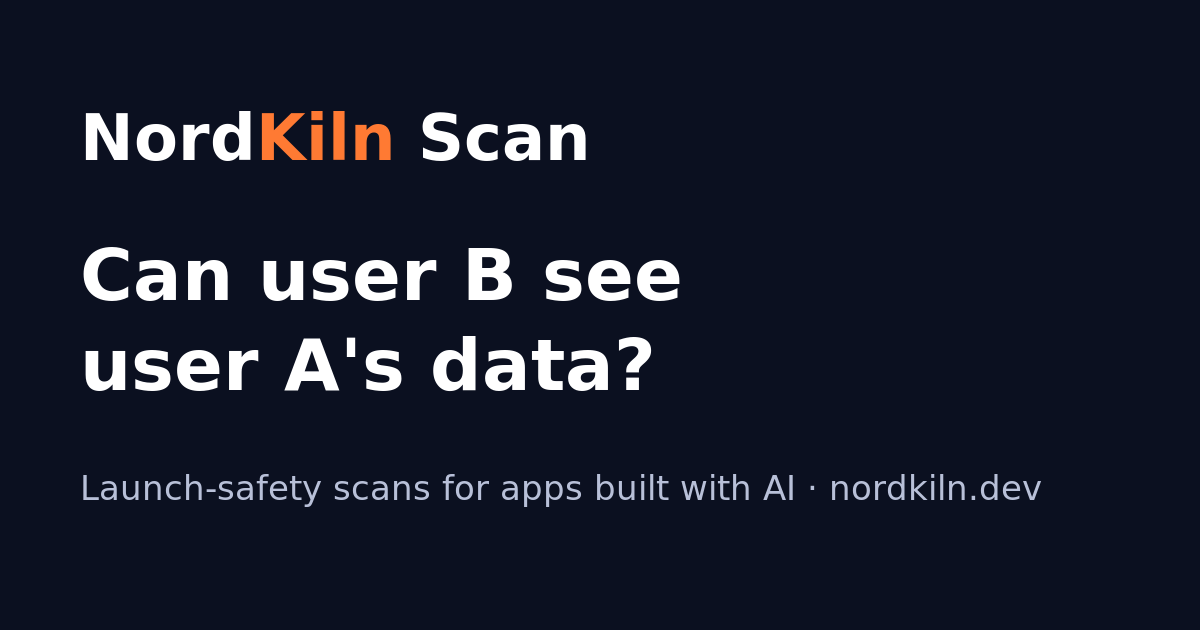
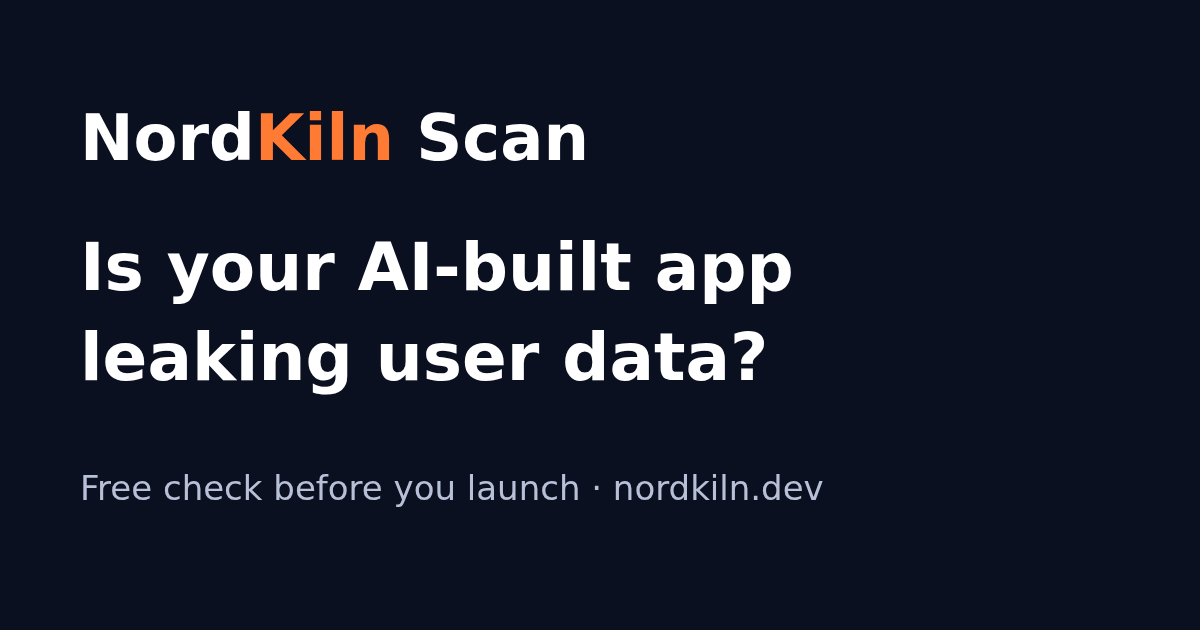
Simpler messaging: 'Is your AI-built app leaking your users' data?'

diff --git a/index.html b/index.html
@@ -1,4 +1,4 @@
-<!doctype html><html lang="en"><head><meta charset="utf-8"><meta name="viewport" content="width=device-width,initial-scale=1"><title>NordKiln Scan: vibe coding security scanner for logged-in data leaks</title><meta name="description" content="Check if your Cursor, Bolt, Replit or v0 app leaks user data before launch. NordKiln tests what logged-in users can see, plus exposed API keys and open Supabase/Firebase."><link rel="canonical" href="https://nordkiln.dev/"><link rel="icon" href="/favicon.svg" type="image/svg+xml"><meta property="og:type" content="website"><meta property="og:site_name" content="NordKiln"><meta property="og:title" content="NordKiln Scan: vibe coding security scanner for logged-in data leaks"><meta property="og:description" content="Check if your Cursor, Bolt, Replit or v0 app leaks user data before launch. NordKiln tests what logged-in users can see, plus exposed API keys and open Supabase/Firebase."><meta property="og:url" content="https://nordkiln.dev/"><meta property="og:image" content="https://nordkiln.dev/og.png"><meta name="twitter:card" content="summary_large_image"><meta name="twitter:site" content="@nordkiln"><style>*{box-sizing:border-box}body{margin:0;font:17px/1.6 system-ui,-apple-system,Segoe UI,Roboto,sans-serif;background:#0b1020;color:#e6e9f2}a{color:#ff9d5c}.w{max-width:960px;margin:0 auto;padding:0 20px}header{border-bottom:1px solid #1d2540}header .w{display:flex;justify-content:space-between;align-items:center;height:64px}.logo{font-weight:800;color:#fff;text-decoration:none;font-size:20px}.logo span{color:#ff7a33}nav a{margin-left:18px;color:#c9cfe0;text-decoration:none}.hero{padding:72px 0 48px}h1{font-size:clamp(32px,5vw,52px);line-height:1.1;margin:.2em 0}.tag{display:inline-block;background:#2a1a10;color:#ffb27d;border:1px solid #6b3a1c;border-radius:99px;padding:2px 12px;font-size:14px}.lead{font-size:20px;color:#b8c0d8;max-width:680px}form{display:flex;gap:8px;flex-wrap:wrap;margin:24px 0 8px}input[type=email]{flex:1;min-width:220px;padding:14px;border-radius:10px;border:1px solid #2c3658;background:#121a33;color:#fff;font-size:16px}button{padding:14px 22px;border:0;border-radius:10px;background:#ff7a33;color:#111;font-weight:700;font-size:16px;cursor:pointer}.small{font-size:14px;color:#8a93ad}.grid{display:grid;grid-template-columns:repeat(auto-fit,minmax(240px,1fr));gap:16px}.card{background:#121a33;border:1px solid #1d2540;border-radius:14px;padding:20px}section{padding:40px 0}h2{font-size:28px}h3{margin-top:28px}footer{border-top:1px solid #1d2540;padding:28px 0;color:#8a93ad;font-size:14px}footer a{color:#8a93ad;margin-right:14px}</style><script type="application/ld+json">{"@context": "https://schema.org", "@type": "FAQPage", "mainEntity": [{"@type": "Question", "name": "What is a vibe coding security scanner?", "acceptedAnswer": {"@type": "Answer", "text": "A tool that checks apps built with AI coding tools (Cursor, Claude Code, Replit, Bolt, v0, Lovable) for the security mistakes AI tends to make: exposed API keys, open Supabase or Firebase databases, and missing access control. NordKiln Scan also logs in as two test users to check whether one user can read another user's data."}}, {"@type": "Question", "name": "Is my Lovable, Bolt or Replit app secure?", "acceptedAnswer": {"@type": "Answer", "text": "Not automatically. The most common problems are database tables without Row Level Security, Firebase rules that allow public reads, and secret keys shipped in frontend JavaScript. A scan that tests both anonymous and logged-in access is the quickest way to know."}}, {"@type": "Question", "name": "How do I check my Supabase RLS policies?", "acceptedAnswer": {"@type": "Answer", "text": "Make sure Row Level Security is enabled on every table, then test with a real logged-in user: user B must not be able to select, update or delete rows owned by user A. NordKiln Scan does this with two test accounts and shows exactly which tables leak."}}, {"@type": "Question", "name": "My Supabase anon key is exposed. Is that a problem?", "acceptedAnswer": {"@type": "Answer", "text": "The anon key is meant to be public, but only if RLS protects every table. A leaked service_role key is critical: it bypasses all security. Rotate it immediately in the Supabase dashboard and move it to server-side code."}}, {"@type": "Question", "name": "How do I check my Firebase security rules?", "acceptedAnswer": {"@type": "Answer", "text": "Rules like allow read, write: if true or if request.auth != null let anyone (or any signed-in user) read everything. Rules should check that request.auth.uid matches the owner of the document."}}, {"@type": "Question", "name": "How do I scan my website for exposed API keys?", "acceptedAnswer": {"@type": "Answer", "text": "Look through the JavaScript bundles your site serves for keys from OpenAI, Stripe, Supabase service_role, AWS and similar. NordKiln Scan does this automatically and explains each finding in plain English."}}, {"@type": "Question", "name": "My OpenAI API key leaked in the frontend. What should I do?", "acceptedAnswer": {"@type": "Answer", "text": "Revoke it now in the OpenAI dashboard, create a new key, and call OpenAI only from a server route or edge function with rate limiting. Also set a monthly spending limit to avoid surprise bills."}}, {"@type": "Question", "name": "What should a Cursor app security checklist cover before launch?", "acceptedAnswer": {"@type": "Answer", "text": "No secrets in client code, access control on every table and API route, users unable to read each other's data, rate limits on paid APIs, and a privacy policy. Our scanner checks these and gives you fix prompts for your tool."}}, {"@type": "Question", "name": "How is NordKiln different from Bleek, Vibeproof or Lovable's built-in scan?", "acceptedAnswer": {"@type": "Answer", "text": "Most scanners only check what an anonymous visitor sees. NordKiln tests what logged-in users can see, gives fix prompts for Cursor, Claude Code, Replit, Bolt and v0, re-scans to verify the fix, and issues a 'verified safe to launch' badge."}}, {"@type": "Question", "name": "Can I scan any app?", "acceptedAnswer": {"@type": "Answer", "text": "No. Deep scans are only for apps you own or are authorized to test, and we ask you to prove ownership. Our probes are read-only."}}]}</script><script type="application/ld+json">{"@context": "https://schema.org", "@type": "Organization", "name": "NordKiln", "url": "https://nordkiln.dev", "logo": "https://nordkiln.dev/favicon.svg", "sameAs": ["https://x.com/nordkiln"]}</script></head><body><header><div class="w"><a class="logo" href="/">Nord<span>Kiln</span></a><nav><a href="/tools/supabase-check/">Supabase check</a><a href="/scan/">Scan</a><a href="/#faq">FAQ</a><a href="https://x.com/nordkiln">X</a></nav></div></header><main class="w"><section class="hero"><span class="tag">Coming soon · free early access</span><h1>Can user B see user A's data?</h1><p class="lead">NordKiln Scan checks apps built with AI before launch. We log in as two test users and prove whether your app leaks private data, then find exposed API keys and open Supabase or Firebase databases. You get plain-English fixes and a verified safe-to-launch badge.</p><form action="https://formsubmit.co/dan.nordkiln@gmail.com" method="POST"><input type="hidden" name="_subject" value="NordKiln early access signup"><input type="hidden" name="_next" value="https://nordkiln.dev/thanks.html"><input type="hidden" name="_captcha" value="false"><input type="text" name="_honey" style="display:none"><label for="em" class="small" style="width:100%">Get early access to the free scan:</label><input id="em" type="email" name="email" required placeholder="you@yourapp.com"><button type="submit">Join early access</button></form><p class="small">No spam. One email when the scanner opens, plus an occasional newsletter. Unsubscribe anytime.</p><p class="small"><a href="/scan/">How NordKiln Scan works →</a></p></section><section><h2>How it works</h2><div class="grid"><div class="card"><h3>1. Paste your URL</h3><p>Free scan for leaked API keys, open Supabase/Firebase and missing security headers.</p></div><div class="card"><h3>2. Add two test users</h3><p>We log in as user A and user B and check whether B can read, edit or delete A's data.</p></div><div class="card"><h3>3. Fix and verify</h3><p>Plain-English findings, copy-paste fix prompts for Cursor, Claude Code, Replit, Bolt or v0, then a re-scan and a "verified safe to launch" badge.</p></div></div></section>
+<!doctype html><html lang="en"><head><meta charset="utf-8"><meta name="viewport" content="width=device-width,initial-scale=1"><title>Is your AI-built app leaking your users' data? Free vibe coding security scanner | NordKiln</title><meta name="description" content="Free check before you launch: is your Cursor, Bolt, Replit or v0 app leaking your users' data? We test what logged-in users can see, plus exposed API keys and open Supabase/Firebase, with plain-English fixes."><link rel="canonical" href="https://nordkiln.dev/"><link rel="icon" href="/favicon.svg" type="image/svg+xml"><meta property="og:type" content="website"><meta property="og:site_name" content="NordKiln"><meta property="og:title" content="Is your AI-built app leaking your users' data? Free vibe coding security scanner | NordKiln"><meta property="og:description" content="Free check before you launch: is your Cursor, Bolt, Replit or v0 app leaking your users' data? We test what logged-in users can see, plus exposed API keys and open Supabase/Firebase, with plain-English fixes."><meta property="og:url" content="https://nordkiln.dev/"><meta property="og:image" content="https://nordkiln.dev/og.png"><meta name="twitter:card" content="summary_large_image"><meta name="twitter:site" content="@nordkiln"><style>*{box-sizing:border-box}body{margin:0;font:17px/1.6 system-ui,-apple-system,Segoe UI,Roboto,sans-serif;background:#0b1020;color:#e6e9f2}a{color:#ff9d5c}.w{max-width:960px;margin:0 auto;padding:0 20px}header{border-bottom:1px solid #1d2540}header .w{display:flex;justify-content:space-between;align-items:center;height:64px}.logo{font-weight:800;color:#fff;text-decoration:none;font-size:20px}.logo span{color:#ff7a33}nav a{margin-left:18px;color:#c9cfe0;text-decoration:none}.hero{padding:72px 0 48px}h1{font-size:clamp(32px,5vw,52px);line-height:1.1;margin:.2em 0}.tag{display:inline-block;background:#2a1a10;color:#ffb27d;border:1px solid #6b3a1c;border-radius:99px;padding:2px 12px;font-size:14px}.lead{font-size:20px;color:#b8c0d8;max-width:680px}form{display:flex;gap:8px;flex-wrap:wrap;margin:24px 0 8px}input[type=email]{flex:1;min-width:220px;padding:14px;border-radius:10px;border:1px solid #2c3658;background:#121a33;color:#fff;font-size:16px}button{padding:14px 22px;border:0;border-radius:10px;background:#ff7a33;color:#111;font-weight:700;font-size:16px;cursor:pointer}.small{font-size:14px;color:#8a93ad}.grid{display:grid;grid-template-columns:repeat(auto-fit,minmax(240px,1fr));gap:16px}.card{background:#121a33;border:1px solid #1d2540;border-radius:14px;padding:20px}section{padding:40px 0}h2{font-size:28px}h3{margin-top:28px}footer{border-top:1px solid #1d2540;padding:28px 0;color:#8a93ad;font-size:14px}footer a{color:#8a93ad;margin-right:14px}</style><script type="application/ld+json">{"@context": "https://schema.org", "@type": "FAQPage", "mainEntity": [{"@type": "Question", "name": "What is a vibe coding security scanner?", "acceptedAnswer": {"@type": "Answer", "text": "A tool that checks apps built with AI coding tools (Cursor, Claude Code, Replit, Bolt, v0, Lovable) for the security mistakes AI tends to make: exposed API keys, open Supabase or Firebase databases, and missing access control. NordKiln Scan also logs in as two test users to check whether one user can read another user's data."}}, {"@type": "Question", "name": "Is my Lovable, Bolt or Replit app secure?", "acceptedAnswer": {"@type": "Answer", "text": "Not automatically. The most common problems are database tables without Row Level Security, Firebase rules that allow public reads, and secret keys shipped in frontend JavaScript. A scan that tests both anonymous and logged-in access is the quickest way to know."}}, {"@type": "Question", "name": "How do I check my Supabase RLS policies?", "acceptedAnswer": {"@type": "Answer", "text": "Make sure Row Level Security is enabled on every table, then test with a real logged-in user: user B must not be able to select, update or delete rows owned by user A. NordKiln Scan does this with two test accounts and shows exactly which tables leak."}}, {"@type": "Question", "name": "My Supabase anon key is exposed. Is that a problem?", "acceptedAnswer": {"@type": "Answer", "text": "The anon key is meant to be public, but only if RLS protects every table. A leaked service_role key is critical: it bypasses all security. Rotate it immediately in the Supabase dashboard and move it to server-side code."}}, {"@type": "Question", "name": "How do I check my Firebase security rules?", "acceptedAnswer": {"@type": "Answer", "text": "Rules like allow read, write: if true or if request.auth != null let anyone (or any signed-in user) read everything. Rules should check that request.auth.uid matches the owner of the document."}}, {"@type": "Question", "name": "How do I scan my website for exposed API keys?", "acceptedAnswer": {"@type": "Answer", "text": "Look through the JavaScript bundles your site serves for keys from OpenAI, Stripe, Supabase service_role, AWS and similar. NordKiln Scan does this automatically and explains each finding in plain English."}}, {"@type": "Question", "name": "My OpenAI API key leaked in the frontend. What should I do?", "acceptedAnswer": {"@type": "Answer", "text": "Revoke it now in the OpenAI dashboard, create a new key, and call OpenAI only from a server route or edge function with rate limiting. Also set a monthly spending limit to avoid surprise bills."}}, {"@type": "Question", "name": "What should a Cursor app security checklist cover before launch?", "acceptedAnswer": {"@type": "Answer", "text": "No secrets in client code, access control on every table and API route, users unable to read each other's data, rate limits on paid APIs, and a privacy policy. Our scanner checks these and gives you fix prompts for your tool."}}, {"@type": "Question", "name": "How is NordKiln different from Bleek, Vibeproof or Lovable's built-in scan?", "acceptedAnswer": {"@type": "Answer", "text": "Most scanners only check what an anonymous visitor sees. NordKiln tests what logged-in users can see, gives fix prompts for Cursor, Claude Code, Replit, Bolt and v0, re-scans to verify the fix, and issues a 'verified safe to launch' badge."}}, {"@type": "Question", "name": "Can I scan any app?", "acceptedAnswer": {"@type": "Answer", "text": "No. Deep scans are only for apps you own or are authorized to test, and we ask you to prove ownership. Our probes are read-only."}}]}</script><script type="application/ld+json">{"@context": "https://schema.org", "@type": "Organization", "name": "NordKiln", "url": "https://nordkiln.dev", "logo": "https://nordkiln.dev/favicon.svg", "sameAs": ["https://x.com/nordkiln"]}</script></head><body><header><div class="w"><a class="logo" href="/">Nord<span>Kiln</span></a><nav><a href="/tools/supabase-check/">Supabase check</a><a href="/scan/">Scan</a><a href="/#faq">FAQ</a><a href="https://x.com/nordkiln">X</a></nav></div></header><main class="w"><section class="hero"><span class="tag">Coming soon · free early access</span><h1>Is your AI-built app leaking your users' data?</h1><p class="lead">Free check before you launch. We test your app like a real user would, including whether one logged-in user can see another user's private data, and give you plain-English fixes. Works with apps built in Cursor, Bolt, Replit, v0 and Lovable.</p><form action="https://formsubmit.co/dan.nordkiln@gmail.com" method="POST"><input type="hidden" name="_subject" value="NordKiln early access signup"><input type="hidden" name="_next" value="https://nordkiln.dev/thanks.html"><input type="hidden" name="_captcha" value="false"><input type="text" name="_honey" style="display:none"><label for="em" class="small" style="width:100%">Get early access to the free scan:</label><input id="em" type="email" name="email" required placeholder="you@yourapp.com"><button type="submit">Join early access</button></form><p class="small">No spam. One email when the scanner opens, plus an occasional newsletter. Unsubscribe anytime.</p><p class="small"><a href="/scan/">How NordKiln Scan works →</a></p></section><section><h2>How it works</h2><div class="grid"><div class="card"><h3>1. Paste your URL</h3><p>Free scan for leaked API keys, open Supabase/Firebase and missing security headers.</p></div><div class="card"><h3>2. Add two test users</h3><p>We log in as user A and user B and check whether B can read, edit or delete A's data.</p></div><div class="card"><h3>3. Fix and verify</h3><p>Plain-English findings, copy-paste fix prompts for Cursor, Claude Code, Replit, Bolt or v0, then a re-scan and a "verified safe to launch" badge.</p></div></div></section>
 <section><h2>Free tools</h2><div class="grid"><div class="card"><h3>Supabase RLS checker</h3><p>Client-side check: is your anon key safe? See which tables anonymous visitors can read, and catch leaked <code>service_role</code> or API keys. Nothing is uploaded.</p><p><a href="/tools/supabase-check/">Run the free check →</a></p></div></div></section>
 <section><h2>Built for apps made with</h2><p>Cursor · Claude Code · Replit · Bolt · v0 · Lovable, using stacks like Next.js, Supabase, Firebase, Clerk, Convex and Stripe.</p></section>
 <section id="faq"><h2>Frequently asked questions</h2><h3>What is a vibe coding security scanner?</h3><p>A tool that checks apps built with AI coding tools (Cursor, Claude Code, Replit, Bolt, v0, Lovable) for the security mistakes AI tends to make: exposed API keys, open Supabase or Firebase databases, and missing access control. NordKiln Scan also logs in as two test users to check whether one user can read another user's data.</p><h3>Is my Lovable, Bolt or Replit app secure?</h3><p>Not automatically. The most common problems are database tables without Row Level Security, Firebase rules that allow public reads, and secret keys shipped in frontend JavaScript. A scan that tests both anonymous and logged-in access is the quickest way to know.</p><h3>How do I check my Supabase RLS policies?</h3><p>Make sure Row Level Security is enabled on every table, then test with a real logged-in user: user B must not be able to select, update or delete rows owned by user A. NordKiln Scan does this with two test accounts and shows exactly which tables leak.</p><h3>My Supabase anon key is exposed. Is that a problem?</h3><p>The anon key is meant to be public, but only if RLS protects every table. A leaked service_role key is critical: it bypasses all security. Rotate it immediately in the Supabase dashboard and move it to server-side code.</p><h3>How do I check my Firebase security rules?</h3><p>Rules like allow read, write: if true or if request.auth != null let anyone (or any signed-in user) read everything. Rules should check that request.auth.uid matches the owner of the document.</p><h3>How do I scan my website for exposed API keys?</h3><p>Look through the JavaScript bundles your site serves for keys from OpenAI, Stripe, Supabase service_role, AWS and similar. NordKiln Scan does this automatically and explains each finding in plain English.</p><h3>My OpenAI API key leaked in the frontend. What should I do?</h3><p>Revoke it now in the OpenAI dashboard, create a new key, and call OpenAI only from a server route or edge function with rate limiting. Also set a monthly spending limit to avoid surprise bills.</p><h3>What should a Cursor app security checklist cover before launch?</h3><p>No secrets in client code, access control on every table and API route, users unable to read each other's data, rate limits on paid APIs, and a privacy policy. Our scanner checks these and gives you fix prompts for your tool.</p><h3>How is NordKiln different from Bleek, Vibeproof or Lovable's built-in scan?</h3><p>Most scanners only check what an anonymous visitor sees. NordKiln tests what logged-in users can see, gives fix prompts for Cursor, Claude Code, Replit, Bolt and v0, re-scans to verify the fix, and issues a 'verified safe to launch' badge.</p><h3>Can I scan any app?</h3><p>No. Deep scans are only for apps you own or are authorized to test, and we ask you to prove ownership. Our probes are read-only.</p></section>

diff --git a/scan/index.html b/scan/index.html
@@ -1,4 +1,4 @@
-<!doctype html><html lang="en"><head><meta charset="utf-8"><meta name="viewport" content="width=device-width,initial-scale=1"><title>NordKiln Scan: check your vibe-coded app for data leaks before launch</title><meta name="description" content="How NordKiln Scan tests logged-in access, Supabase RLS, Firebase rules and exposed API keys in AI-built apps, and what the $19 Launch Pass will include."><link rel="canonical" href="https://nordkiln.dev/scan/"><link rel="icon" href="/favicon.svg" type="image/svg+xml"><meta property="og:type" content="website"><meta property="og:site_name" content="NordKiln"><meta property="og:title" content="NordKiln Scan: check your vibe-coded app for data leaks before launch"><meta property="og:description" content="How NordKiln Scan tests logged-in access, Supabase RLS, Firebase rules and exposed API keys in AI-built apps, and what the $19 Launch Pass will include."><meta property="og:url" content="https://nordkiln.dev/scan/"><meta property="og:image" content="https://nordkiln.dev/og.png"><meta name="twitter:card" content="summary_large_image"><meta name="twitter:site" content="@nordkiln"><style>*{box-sizing:border-box}body{margin:0;font:17px/1.6 system-ui,-apple-system,Segoe UI,Roboto,sans-serif;background:#0b1020;color:#e6e9f2}a{color:#ff9d5c}.w{max-width:960px;margin:0 auto;padding:0 20px}header{border-bottom:1px solid #1d2540}header .w{display:flex;justify-content:space-between;align-items:center;height:64px}.logo{font-weight:800;color:#fff;text-decoration:none;font-size:20px}.logo span{color:#ff7a33}nav a{margin-left:18px;color:#c9cfe0;text-decoration:none}.hero{padding:72px 0 48px}h1{font-size:clamp(32px,5vw,52px);line-height:1.1;margin:.2em 0}.tag{display:inline-block;background:#2a1a10;color:#ffb27d;border:1px solid #6b3a1c;border-radius:99px;padding:2px 12px;font-size:14px}.lead{font-size:20px;color:#b8c0d8;max-width:680px}form{display:flex;gap:8px;flex-wrap:wrap;margin:24px 0 8px}input[type=email]{flex:1;min-width:220px;padding:14px;border-radius:10px;border:1px solid #2c3658;background:#121a33;color:#fff;font-size:16px}button{padding:14px 22px;border:0;border-radius:10px;background:#ff7a33;color:#111;font-weight:700;font-size:16px;cursor:pointer}.small{font-size:14px;color:#8a93ad}.grid{display:grid;grid-template-columns:repeat(auto-fit,minmax(240px,1fr));gap:16px}.card{background:#121a33;border:1px solid #1d2540;border-radius:14px;padding:20px}section{padding:40px 0}h2{font-size:28px}h3{margin-top:28px}footer{border-top:1px solid #1d2540;padding:28px 0;color:#8a93ad;font-size:14px}footer a{color:#8a93ad;margin-right:14px}</style></head><body><header><div class="w"><a class="logo" href="/">Nord<span>Kiln</span></a><nav><a href="/tools/supabase-check/">Supabase check</a><a href="/scan/">Scan</a><a href="/#faq">FAQ</a><a href="https://x.com/nordkiln">X</a></nav></div></header><main class="w"><section class="hero"><span class="tag">Coming soon</span><h1>NordKiln Scan</h1><p class="lead">A launch-safety check for apps built with Cursor, Claude Code, Replit, Bolt and v0. Most scanners only look at what anonymous visitors can see. We also test what your logged-in users can see.</p><form action="https://formsubmit.co/dan.nordkiln@gmail.com" method="POST"><input type="hidden" name="_subject" value="NordKiln early access signup"><input type="hidden" name="_next" value="https://nordkiln.dev/thanks.html"><input type="hidden" name="_captcha" value="false"><input type="text" name="_honey" style="display:none"><label for="em" class="small" style="width:100%">Get early access to the free scan:</label><input id="em" type="email" name="email" required placeholder="you@yourapp.com"><button type="submit">Join early access</button></form><p class="small">No spam. One email when the scanner opens, plus an occasional newsletter. Unsubscribe anytime.</p></section>
+<!doctype html><html lang="en"><head><meta charset="utf-8"><meta name="viewport" content="width=device-width,initial-scale=1"><title>Is your AI-built app leaking user data? NordKiln Scan checks before launch</title><meta name="description" content="Find out if your AI-built app leaks your users' data before launch. How NordKiln Scan tests logged-in access, Supabase RLS, Firebase rules and exposed API keys, and what the $19 Launch Pass will include."><link rel="canonical" href="https://nordkiln.dev/scan/"><link rel="icon" href="/favicon.svg" type="image/svg+xml"><meta property="og:type" content="website"><meta property="og:site_name" content="NordKiln"><meta property="og:title" content="Is your AI-built app leaking user data? NordKiln Scan checks before launch"><meta property="og:description" content="Find out if your AI-built app leaks your users' data before launch. How NordKiln Scan tests logged-in access, Supabase RLS, Firebase rules and exposed API keys, and what the $19 Launch Pass will include."><meta property="og:url" content="https://nordkiln.dev/scan/"><meta property="og:image" content="https://nordkiln.dev/og.png"><meta name="twitter:card" content="summary_large_image"><meta name="twitter:site" content="@nordkiln"><style>*{box-sizing:border-box}body{margin:0;font:17px/1.6 system-ui,-apple-system,Segoe UI,Roboto,sans-serif;background:#0b1020;color:#e6e9f2}a{color:#ff9d5c}.w{max-width:960px;margin:0 auto;padding:0 20px}header{border-bottom:1px solid #1d2540}header .w{display:flex;justify-content:space-between;align-items:center;height:64px}.logo{font-weight:800;color:#fff;text-decoration:none;font-size:20px}.logo span{color:#ff7a33}nav a{margin-left:18px;color:#c9cfe0;text-decoration:none}.hero{padding:72px 0 48px}h1{font-size:clamp(32px,5vw,52px);line-height:1.1;margin:.2em 0}.tag{display:inline-block;background:#2a1a10;color:#ffb27d;border:1px solid #6b3a1c;border-radius:99px;padding:2px 12px;font-size:14px}.lead{font-size:20px;color:#b8c0d8;max-width:680px}form{display:flex;gap:8px;flex-wrap:wrap;margin:24px 0 8px}input[type=email]{flex:1;min-width:220px;padding:14px;border-radius:10px;border:1px solid #2c3658;background:#121a33;color:#fff;font-size:16px}button{padding:14px 22px;border:0;border-radius:10px;background:#ff7a33;color:#111;font-weight:700;font-size:16px;cursor:pointer}.small{font-size:14px;color:#8a93ad}.grid{display:grid;grid-template-columns:repeat(auto-fit,minmax(240px,1fr));gap:16px}.card{background:#121a33;border:1px solid #1d2540;border-radius:14px;padding:20px}section{padding:40px 0}h2{font-size:28px}h3{margin-top:28px}footer{border-top:1px solid #1d2540;padding:28px 0;color:#8a93ad;font-size:14px}footer a{color:#8a93ad;margin-right:14px}</style></head><body><header><div class="w"><a class="logo" href="/">Nord<span>Kiln</span></a><nav><a href="/tools/supabase-check/">Supabase check</a><a href="/scan/">Scan</a><a href="/#faq">FAQ</a><a href="https://x.com/nordkiln">X</a></nav></div></header><main class="w"><section class="hero"><span class="tag">Coming soon</span><h1>NordKiln Scan: is your app leaking your users' data?</h1><p class="lead">A free check before you launch, for apps built with Cursor, Claude Code, Replit, Bolt and v0. We test your app like a real user would: can a logged-in user see someone else's private data? Most scanners only check what anonymous visitors see. You get plain-English fixes.</p><form action="https://formsubmit.co/dan.nordkiln@gmail.com" method="POST"><input type="hidden" name="_subject" value="NordKiln early access signup"><input type="hidden" name="_next" value="https://nordkiln.dev/thanks.html"><input type="hidden" name="_captcha" value="false"><input type="text" name="_honey" style="display:none"><label for="em" class="small" style="width:100%">Get early access to the free scan:</label><input id="em" type="email" name="email" required placeholder="you@yourapp.com"><button type="submit">Join early access</button></form><p class="small">No spam. One email when the scanner opens, plus an occasional newsletter. Unsubscribe anytime.</p></section>
 <section><h2>What we check</h2><div class="grid"><div class="card"><h3>Cross-user data access</h3><p>With two test accounts we check whether user B can read, change or delete user A's records through your API or database. This is broken access control (IDOR), the leak that sinks apps.</p></div><div class="card"><h3>Supabase RLS</h3><p>Tables without Row Level Security, over-broad policies, and a leaked service_role key.</p></div><div class="card"><h3>Firebase rules</h3><p>Firestore, Realtime Database and Storage rules that allow public or any-user reads.</p></div><div class="card"><h3>Exposed API keys</h3><p>OpenAI, Stripe, AWS and other secrets in your JavaScript bundles, plus open AI proxy endpoints without rate limits.</p></div></div></section>
 <section><h2>How it works</h2><div class="grid"><div class="card"><h3>1. Paste your URL</h3><p>Free scan for leaked API keys, open Supabase/Firebase and missing security headers.</p></div><div class="card"><h3>2. Add two test users</h3><p>We log in as user A and user B and check whether B can read, edit or delete A's data.</p></div><div class="card"><h3>3. Fix and verify</h3><p>Plain-English findings, copy-paste fix prompts for Cursor, Claude Code, Replit, Bolt or v0, then a re-scan and a "verified safe to launch" badge.</p></div></div></section>
 <section><h2>Pricing (planned)</h2><div class="grid"><div class="card"><h3>Free scan</h3><p>Public checks: keys, open databases, headers.</p></div><div class="card"><h3>Launch Pass — $19</h3><p>Logged-in two-user test, full report, fix prompts per tool, re-scan, and a public "verified safe to launch" badge.</p></div><div class="card"><h3>Monitoring — $9/mo</h3><p>Re-scan on every deploy. Later.</p></div></div></section>
